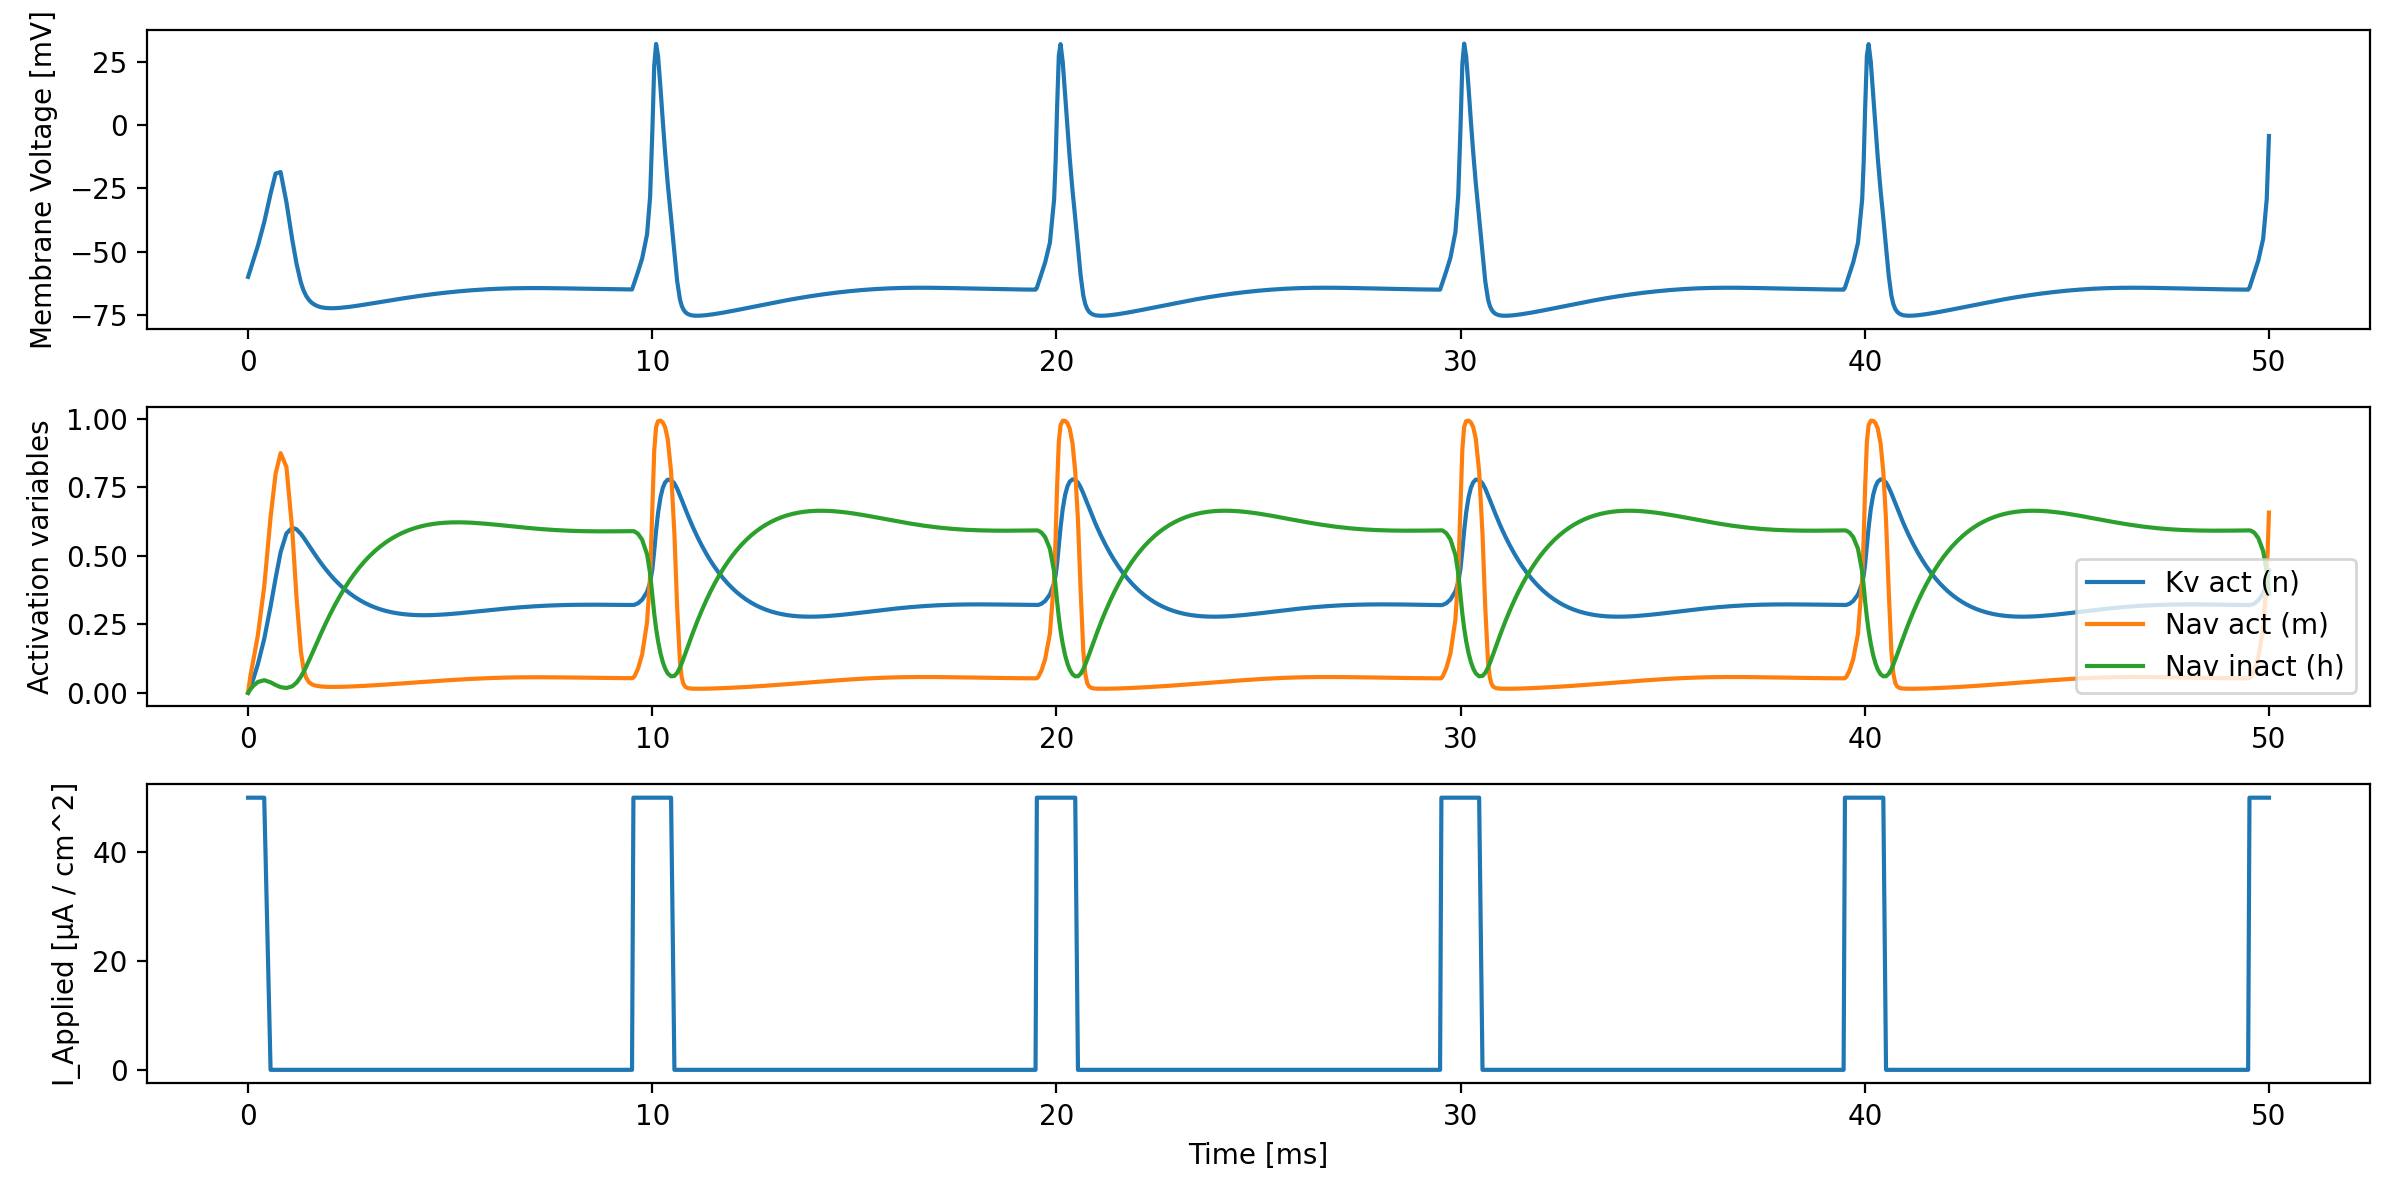
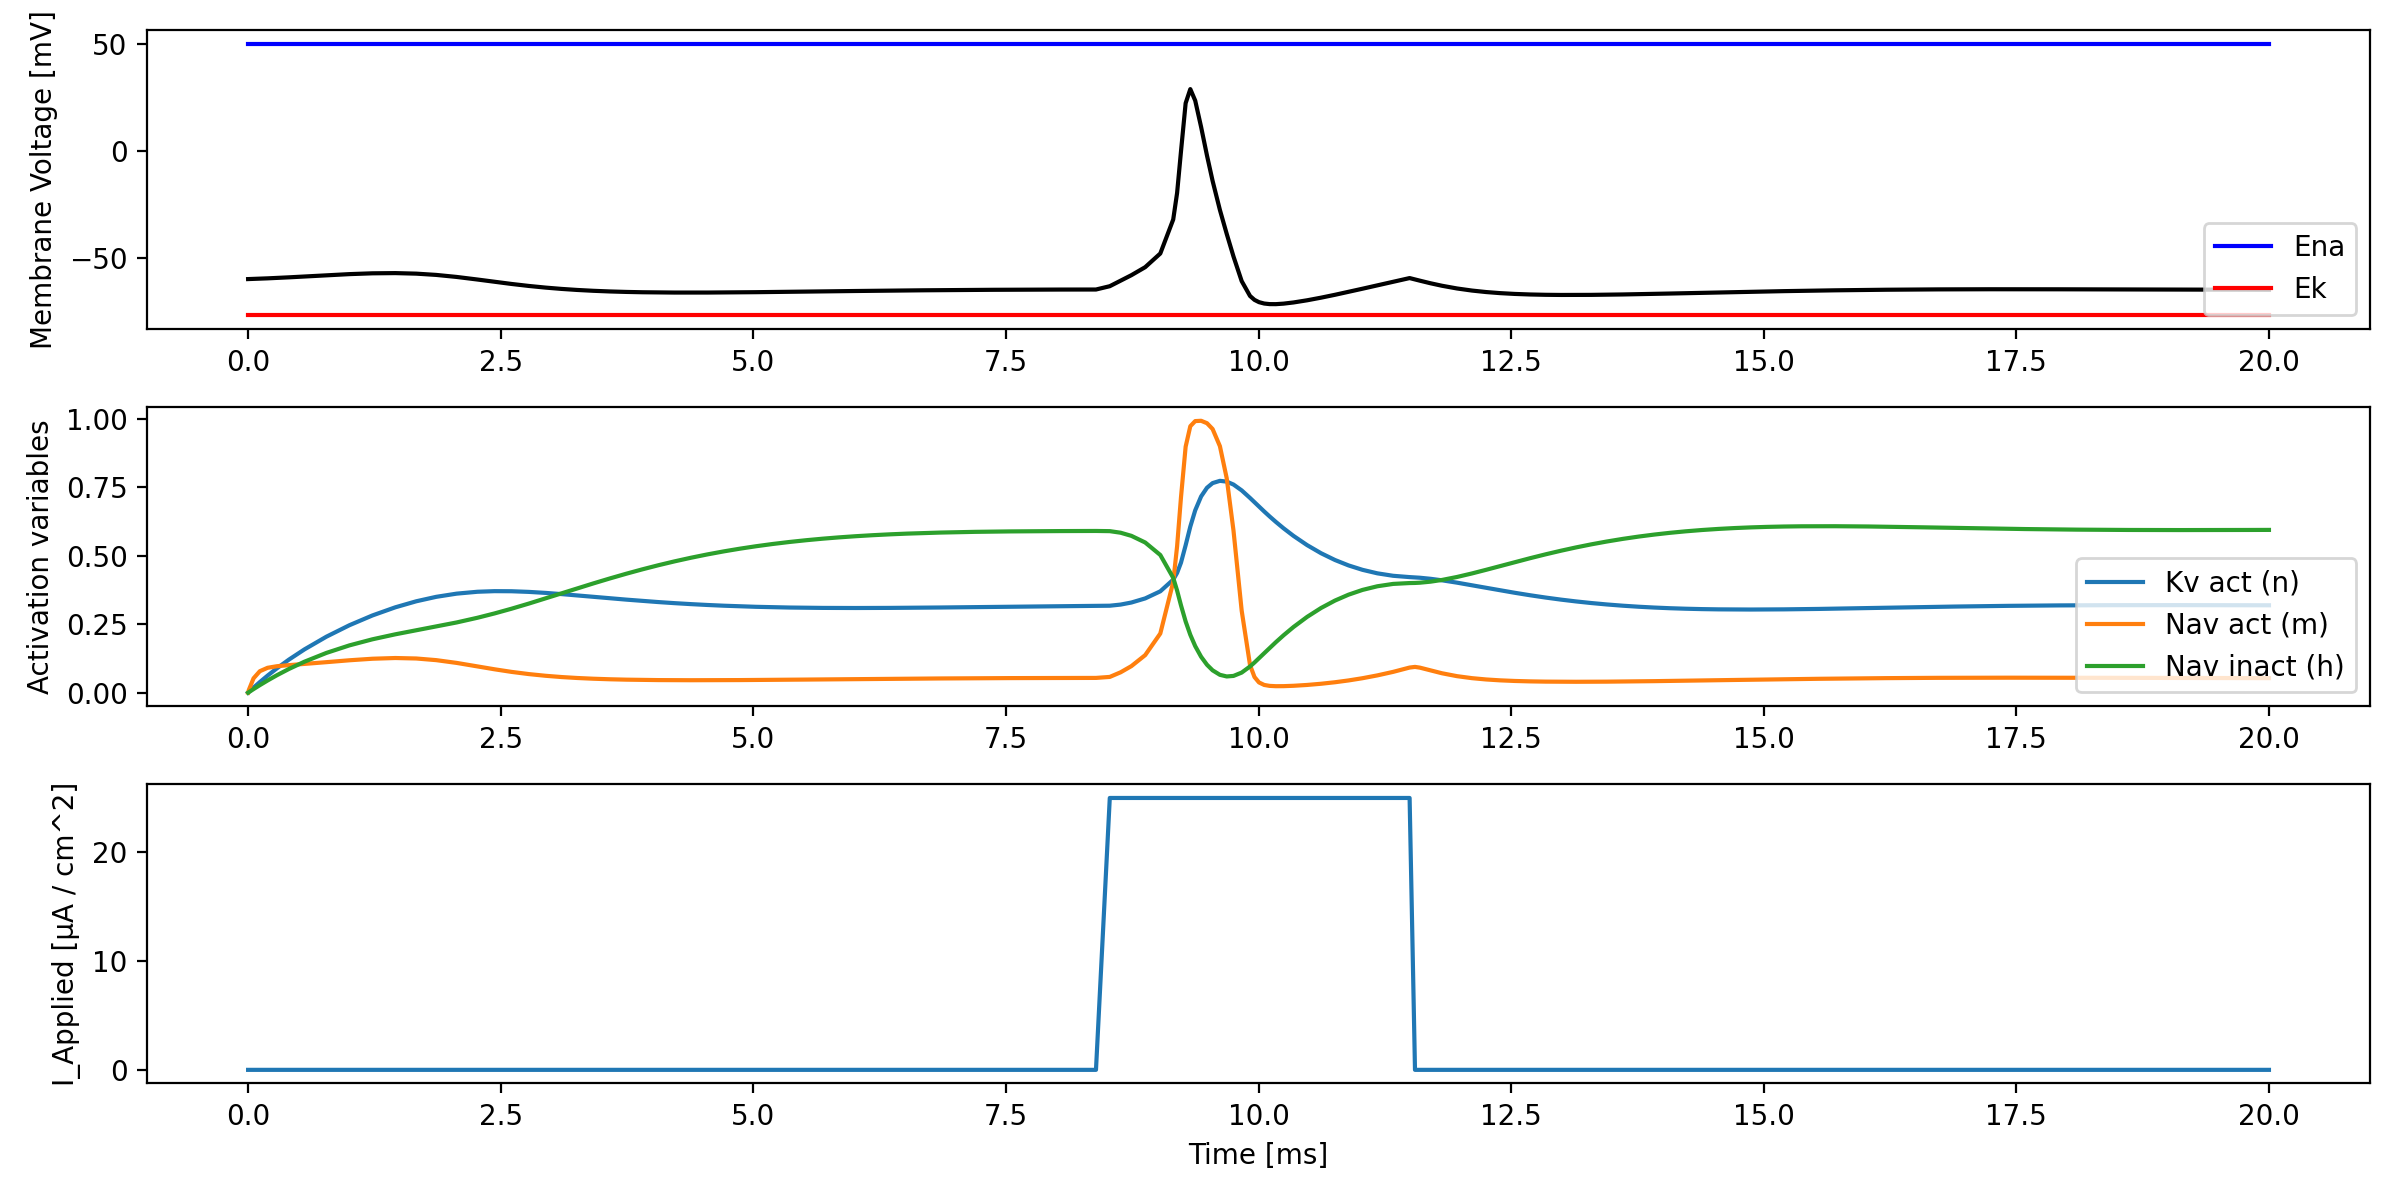
tutorial 1 almost complete

diff --git a/week-01-neuronal-models/py/driver.py b/week-01-neuronal-models/py/driver.py
@@ -12,10 +12,20 @@ def main(ini_cond:list[float],
     # Applied current function - start with no applied current
     # will be vectorized so get the applied current for every timestep straight away
     
-    # Current Applied every 10 seconds
+    # Current Applied function I(t) =  ...
     # Current injection entirely determines response of the system
-    IAppliedF = lambda t: 50 if round(t) % 10 == 0 else 0
-    
+    # IAppliedF = lambda t: 25 if round(t) % 8 == 0 else 0 # regular current injections
+    # IAppliedF = lambda t: 2 if round(t) in (16,17,18) else 0 # subthreshold injection, graded response
+    # IAppliedF = lambda t: 10 if round(t) in (16,17,18) else 0 # suprathreshold injection - AP
+    # IAppliedF = lambda t: 10 if round(t) < 110 and round(t) > 25 else 0 # supratheshold sustained
+    # IAppliedF = lambda t: 50 if round(t) < 110 and round(t) > 25 else 0 # sustained varying intensity
+
+    # Revisiting spike mechanism
+    IAppliedF = lambda t: 25 if round(t) >= 9 and round(t) <= 11 else 0 # suprathreshold injection - AP
+    # TODO: finish revisiting spike mechanism plots
+    # TODO: window current plot y = Nav activation(V) & Nav inactivation(V) x = V
+
+
     # HH results - create a function that will take the time and current state and compute HH
     # Right-hand side of du/dt equation. as in: du/dt = f(*u, t)
     # by using this, we just turned it into a function with just t and u variables!
@@ -33,10 +43,13 @@ def main(ini_cond:list[float],
     voltage, n_act, m_act, h_act  = solution.y
     applied_current = [IAppliedF(tm) for tm in ts]
     
-    fig, axes = plt.subplots(nrows=3, ncols=1, figsize = (12, 6))
+    fig, axes = plt.subplots(nrows=4, ncols=1, figsize = (12, 8))
     
     # Voltage plot
-    axes[0].plot(ts, voltage)
+    axes[0].plot(ts, voltage, color = 'k')
+    axes[0].plot(ts, np.full(ts.shape, params[-4]), color = 'b', label = 'Ena')
+    axes[0].plot(ts, np.full(ts.shape, params[-3]), color = 'r', label = 'Ek')
+    axes[0].legend(loc = 4)
     axes[0].set_ylabel('Membrane Voltage [mV]')
     
     # Activation & Inactivation variables
@@ -46,10 +59,13 @@ def main(ini_cond:list[float],
     axes[1].set_ylabel('Activation variables')
     axes[1].legend(loc = 4)
 
-    # Applied Current 
-    axes[2].plot(ts, applied_current)
-    axes[2].set_ylabel('I_Applied [µA / cm^2]')
-    axes[2].set_xlabel('Time [ms]')
+    # Conductances as function of time gKt, gNat
+    axes[2].plot(ts, ...)
+
+    # Applied Current & IK & INa
+    axes[-1].plot(ts, applied_current)
+    axes[-1].set_ylabel('I_Applied [µA / cm^2]')
+    axes[-1].set_xlabel('Time [ms]')
     
     plt.tight_layout()
     plt.savefig('HodgkinHuxley-Neuron.png', dpi = 200)
@@ -71,7 +87,7 @@ def parse_args():
                         default= 3**((20 - 6.3) / 10))
     
     # Initial Conditions
-    parser.add_argument('-v', type=float, help= 'membrane voltage', default= -60)
+    parser.add_argument('-vm', type=float, help= 'membrane voltage', default= -60)
     parser.add_argument('-act_n', type=float, help= 'Kv activation gate (n)', default= 0)
     parser.add_argument('-act_m', type=float, help= 'Nav activation gate (m)', default= 0)
     parser.add_argument('-inact_h', type=float, help= 'Nav inactivation gate (h)', default= 0)
@@ -84,7 +100,7 @@ def parse_args():
 if __name__ == '__main__':
     args = parse_args()
 
-    state = [args.v, args.act_n, args.act_m, args.inact_h]
+    state = [args.vm, args.act_n, args.act_m, args.inact_h]
     model_params = [args.cm, args.gna, args.gk, args.gl, args.ena, args.ek, args.el, args.phi]
 
     main(ini_cond=state, params= model_params, duration=args.time)

diff --git a/week-01-neuronal-models/py/HodgkinHuxley.py b/week-01-neuronal-models/py/HodgkinHuxley.py
@@ -7,9 +7,10 @@ def HodgkinHuxley(
         # these params determine the behavior of the model
         params:list[float],
         # function that determines the applied current I based on the timepoint (t)
-        Ifunc:callable
-        # returns du/dt with u containing state variables u = [v, n, m, h]
-        ) -> ndarray:
+        Ifunc:callable,
+        # return currents & conductances
+        ret_I_g:bool = False
+        ) -> ndarray: # returns du/dt with u containing state variables u = [v, n, m, h]
     
     # v (voltage), n (activation gate Kv), m (activation gate Nav), h (inactivation gate Nav)
     v, n, m, h = variables
@@ -27,6 +28,11 @@ def HodgkinHuxley(
     IL = - gL * (v - eL)
     # Applied current at time t
     I_applied = Ifunc(t)
+
+    if ret_I_g:
+        gKt = abs(- IK * (n**4) * (v - eK))
+        gNat = abs(- INa * (m**3) * h * (v - eNa))
+        return [IK, INa, gKt, gNat]
 
     # Activation & Inactivation functions  (parameters set by Hodkin & Huxley)
     # for the next timestep update in activation states 
